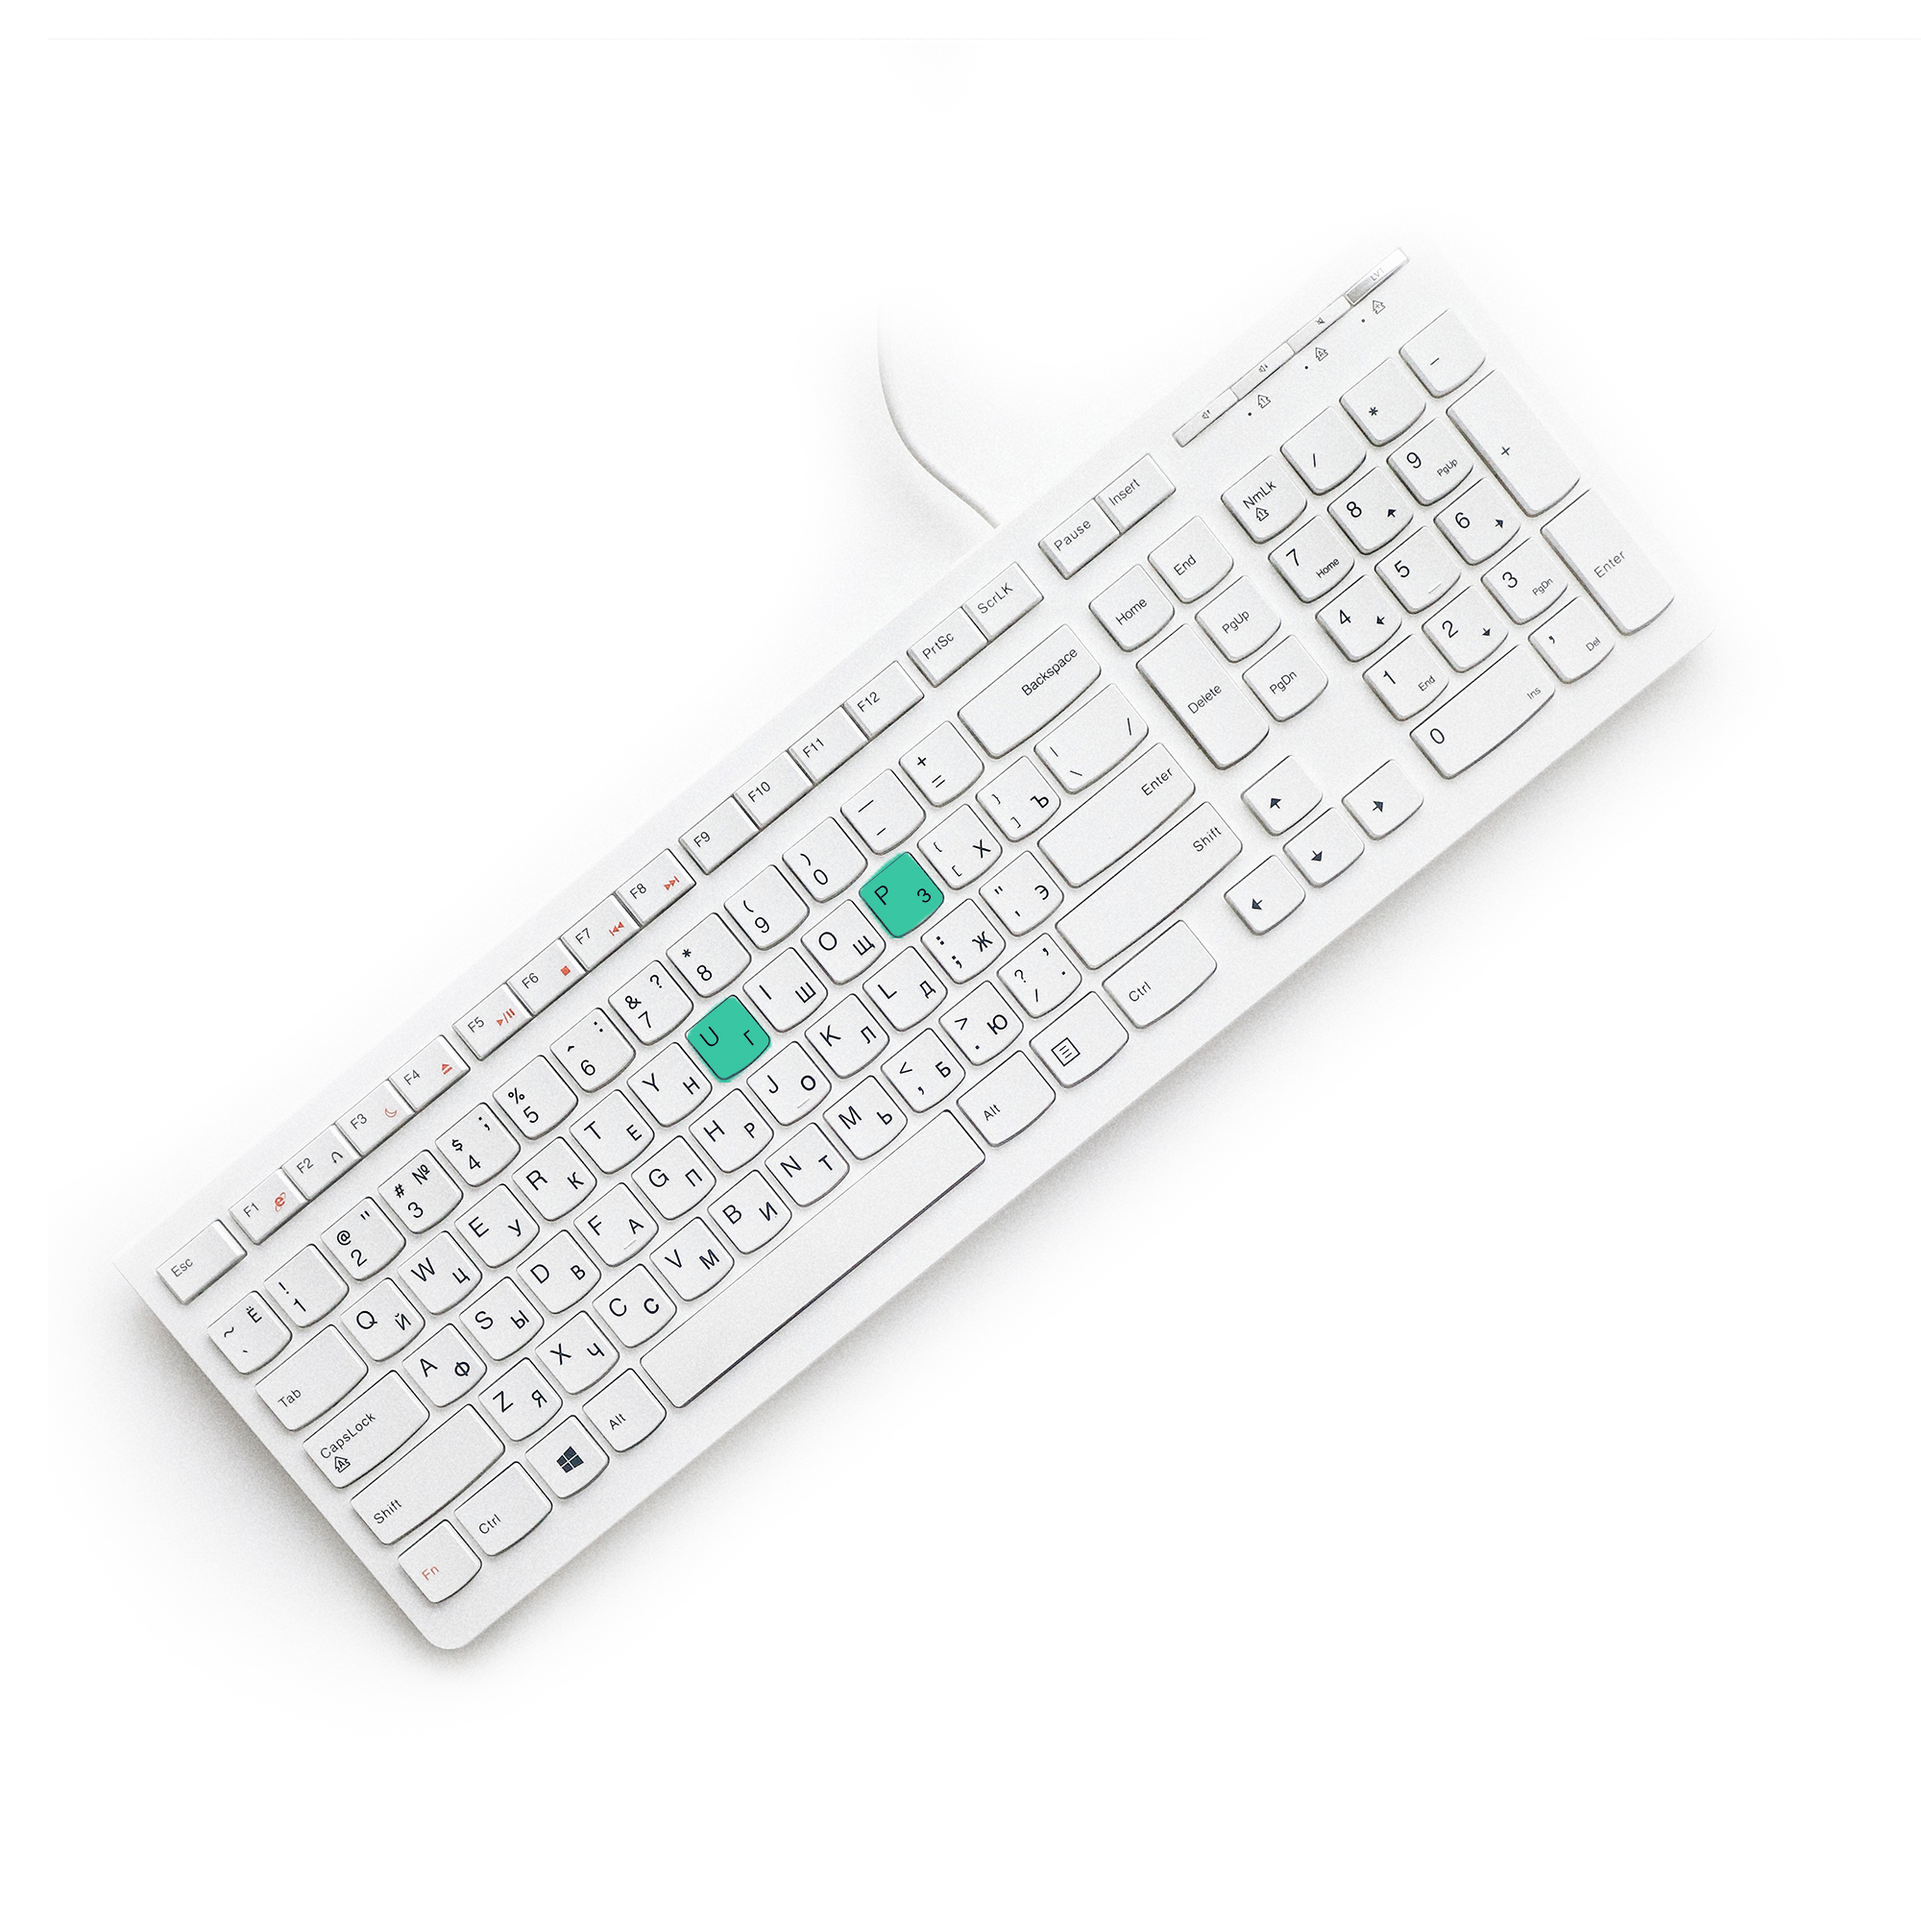
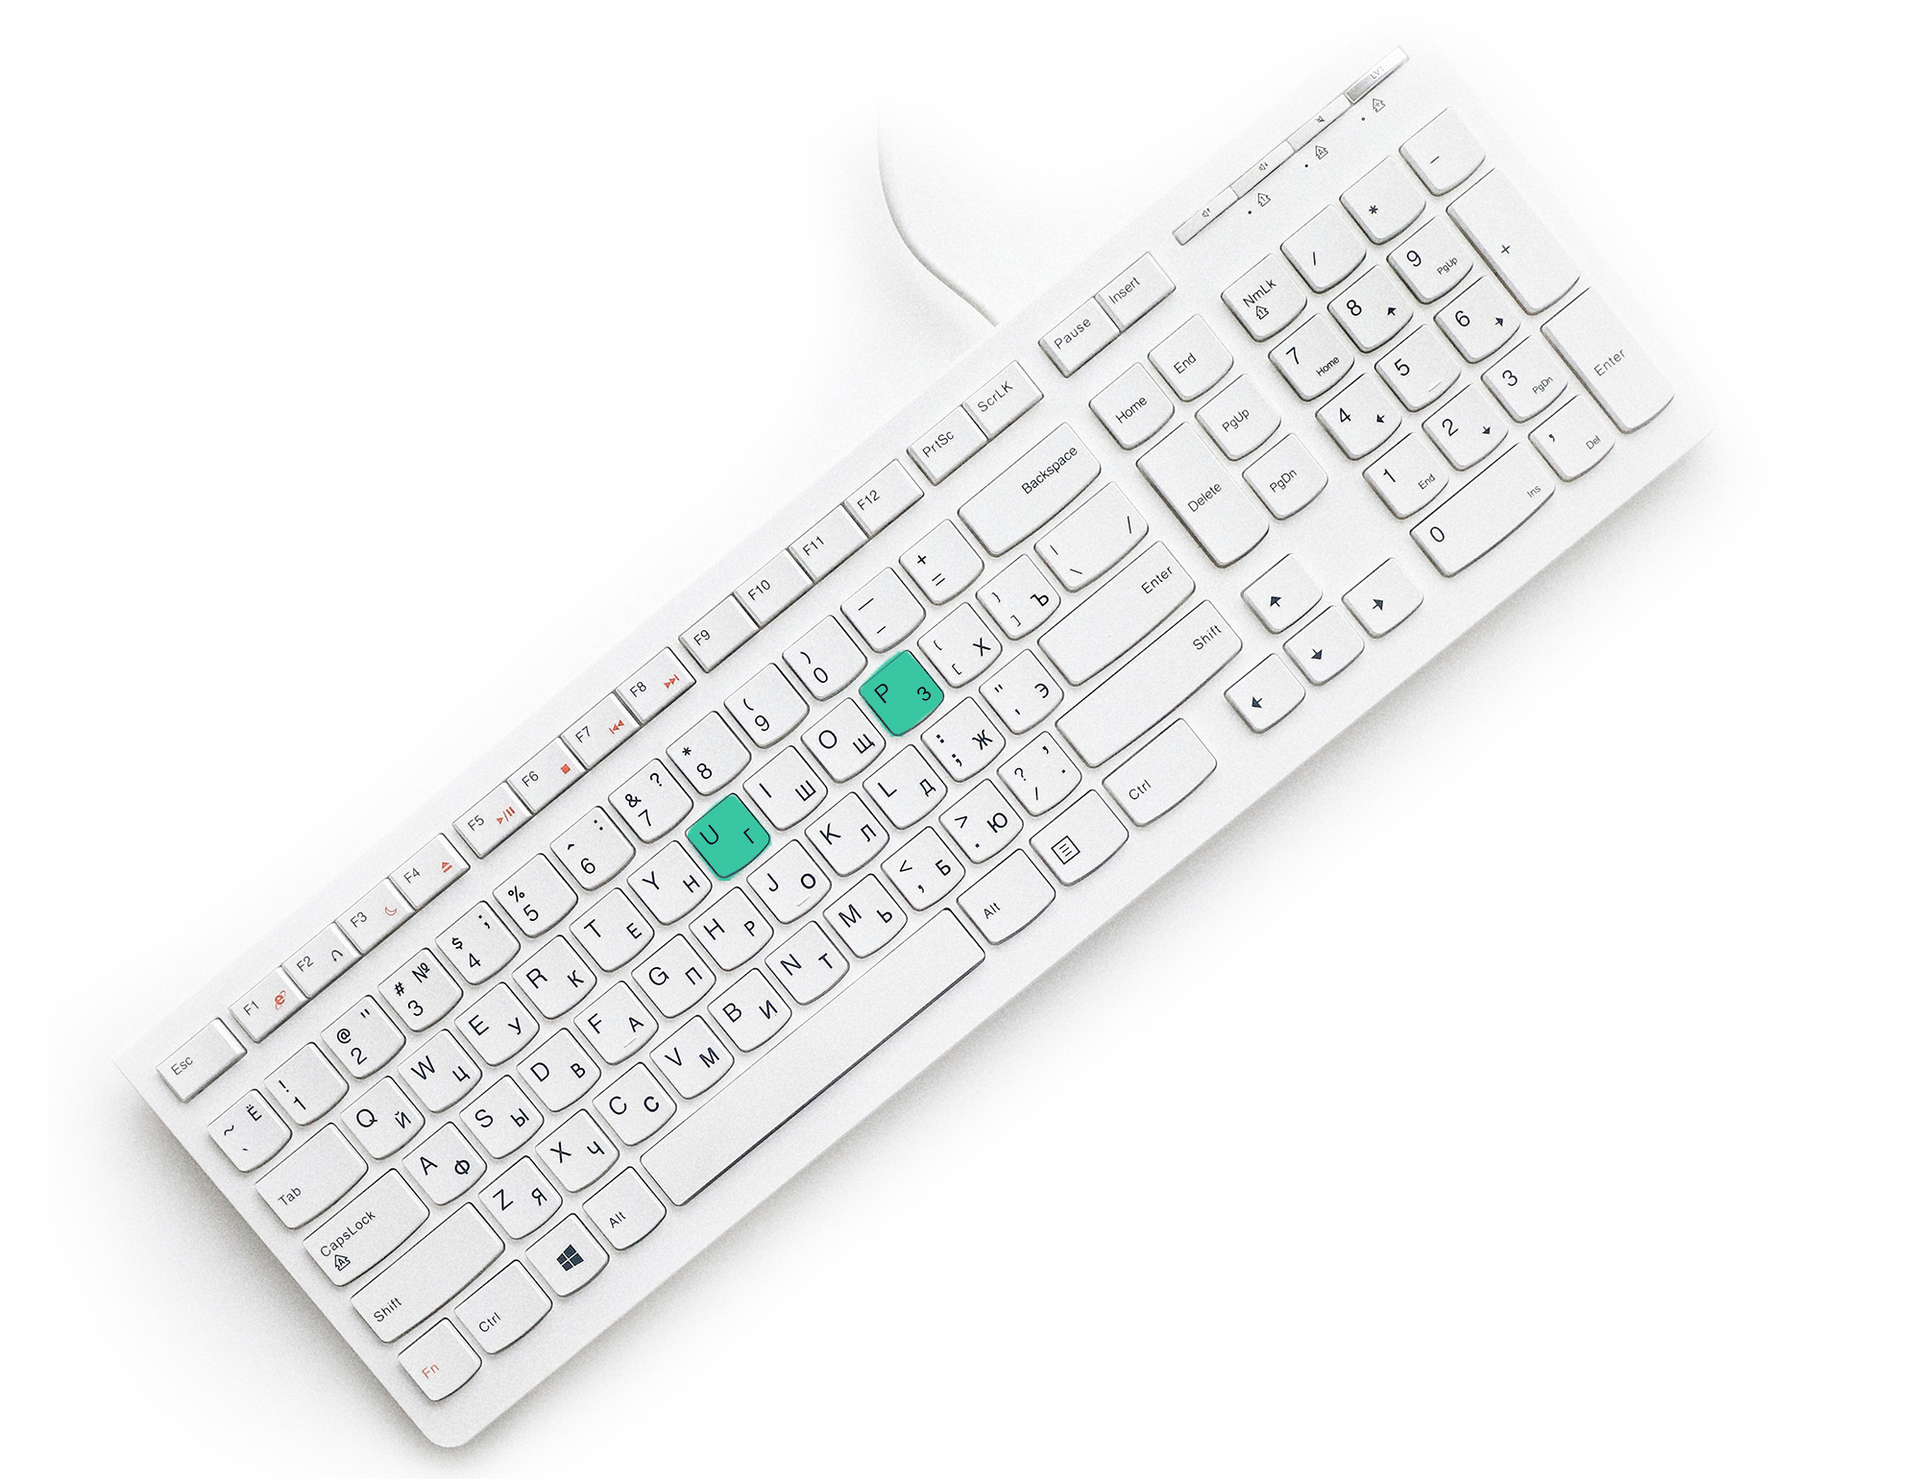
added keyboard image

diff --git a/index.html b/index.html
@@ -33,9 +33,9 @@
         <div class="botaoVamosJuntosHome">
             <a href="#" class="vamosJuntos">vamos juntos</a>
         </div>
-        <!-- <div class="imgTeclado">
-            <img src="./assets/teclado.jpg" alt="TecladoUp" class="imgTecladoUp">
-        </div> -->
+        <div class="imgTeclado">
+            <img src="./assets/teclado.png" alt="TecladoUp" class="imagemTeclado">
+        </div>
     </div>
     <div class="home">
         <div class="cardUs">

diff --git a/style.css b/style.css
@@ -117,9 +117,13 @@ body{
     letter-spacing: 29px;
 }
 
-/* .imgTecladoUp{
-    
-} */
+.imagemTeclado {
+    width: 80vh;
+    height: 55vh;
+    position: absolute;
+    left: 50%;
+    top: 7%;
+}
 
 .botaoVamosJuntosHome{
     font-family: 'Noto Sans Mono', monospace; 
